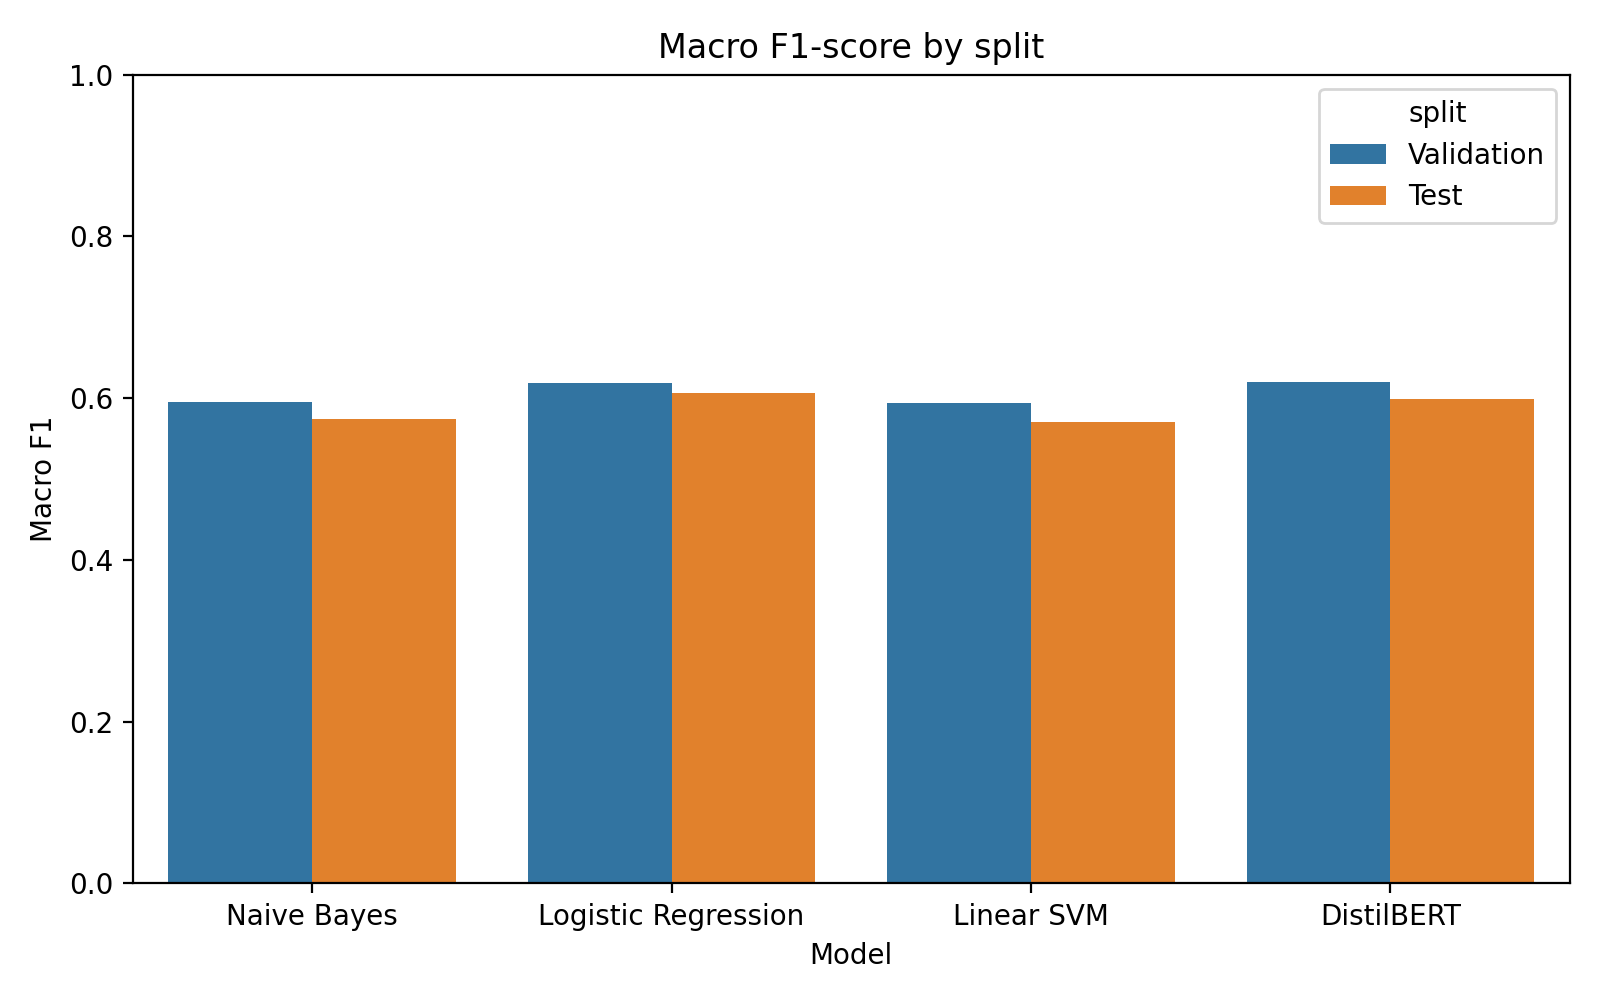
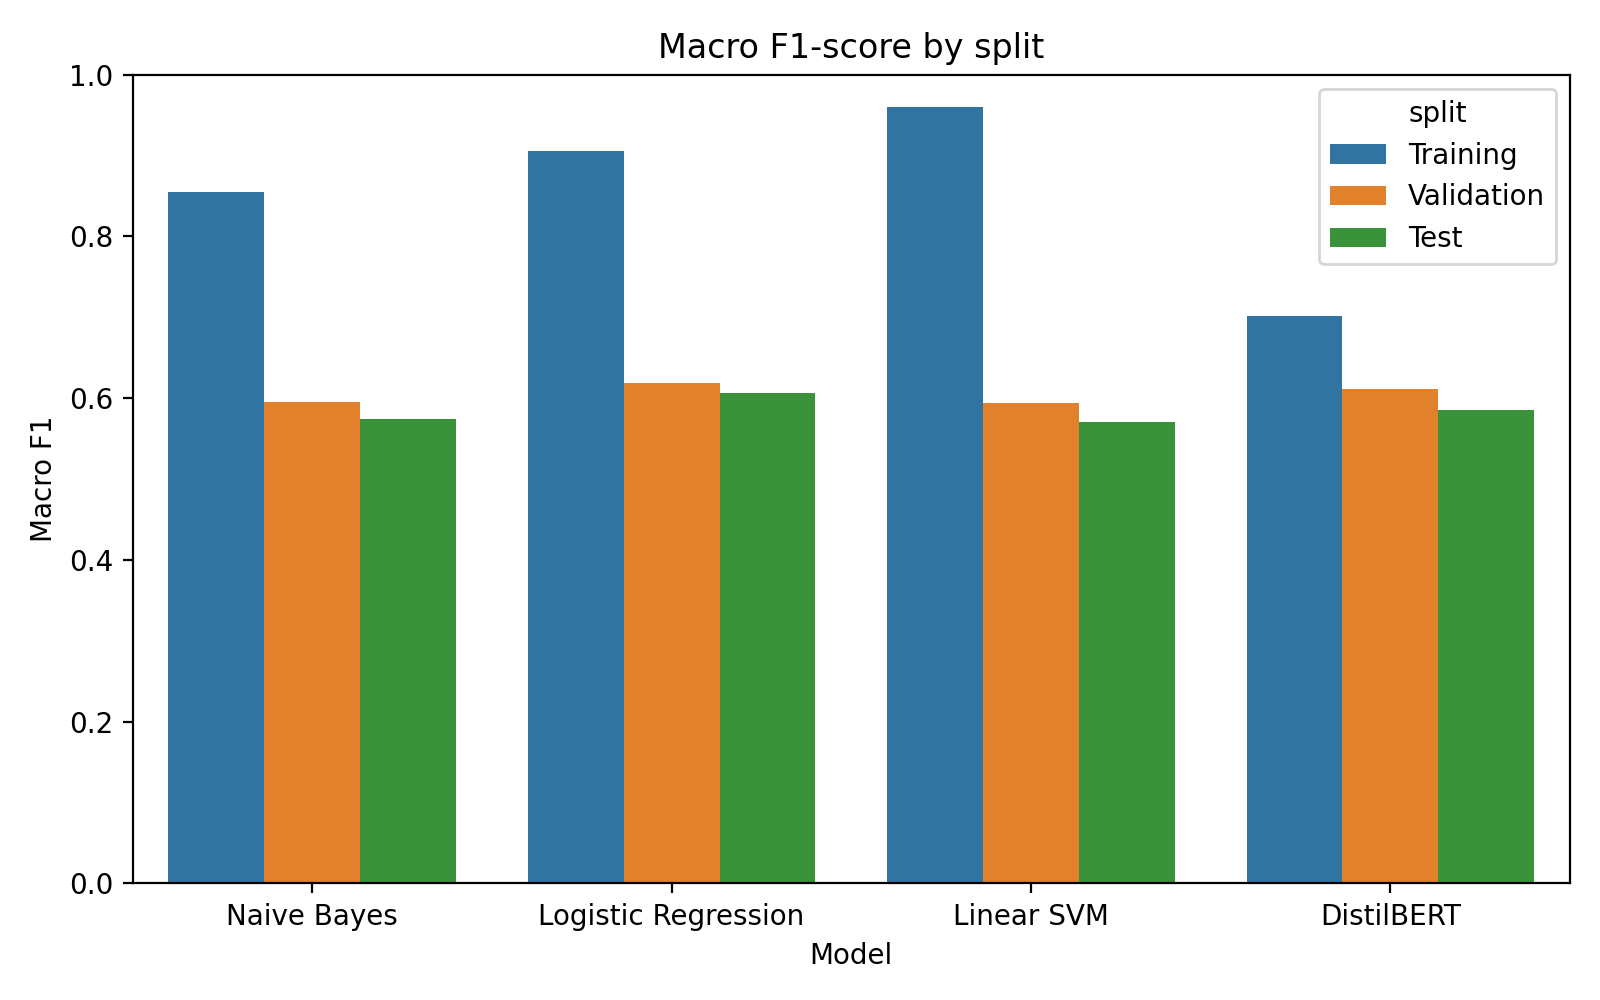
feat: add training metrics across pipelines and report

diff --git a/transformer_models.py b/transformer_models.py
@@ -66,6 +66,7 @@ def train_transformer(dataset: DatasetSplits) -> Dict[str, object]:
     for ds in (tokenized_train, tokenized_val, tokenized_test):
         ds.set_format(type='torch', columns=['input_ids', 'attention_mask', 'label'])
 
+    train_labels = np.array(tokenized_train['label'])
     val_labels = np.array(tokenized_val['label'])
     test_labels = np.array(tokenized_test['label'])
 
@@ -110,6 +111,14 @@ def train_transformer(dataset: DatasetSplits) -> Dict[str, object]:
 
     trainer.train()
 
+    print("\n📊 Transformer Training Results:\n")
+    train_predictions = trainer.predict(tokenized_train)
+    train_preds = np.argmax(train_predictions.predictions, axis=1)
+    print(classification_report(train_labels, train_preds, target_names=dataset.label_encoder.classes_))
+    train_report = classification_report(
+        train_labels, train_preds, target_names=dataset.label_encoder.classes_, output_dict=True
+    )
+
     print("\n📊 Transformer Validation Results:\n")
     val_predictions = trainer.predict(tokenized_val)
     val_preds = np.argmax(val_predictions.predictions, axis=1)
@@ -130,6 +139,10 @@ def train_transformer(dataset: DatasetSplits) -> Dict[str, object]:
         "train_samples": train_count,
         "val_samples": val_count,
         "test_samples": test_count,
+        "training": {
+            "accuracy": accuracy_score(train_labels, train_preds),
+            "report": train_report,
+        },
         "validation": {
             "accuracy": accuracy_score(val_labels, val_preds),
             "report": val_report,

diff --git a/traditional_models.py b/traditional_models.py
@@ -26,7 +26,7 @@ def train_and_evaluate_classical_models(dataset: DatasetSplits) -> Dict[str, Dic
         "Linear SVM": LinearSVC(),
     }
 
-    results: Dict[str, Dict[str, float]] = {}
+    results: Dict[str, Dict[str, object]] = {}
     for name, model in models.items():
         print(f"\nTraining {name}...")
         clf = Pipeline([
@@ -36,10 +36,11 @@ def train_and_evaluate_classical_models(dataset: DatasetSplits) -> Dict[str, Dic
         clf.fit(dataset.X_train, dataset.y_train)
 
         split_metrics: Dict[str, Dict[str, object]] = {}
-        for split_name, (X, y) in {
-            "Validation": (dataset.X_val, dataset.y_val),
-            "Test": (dataset.X_test, dataset.y_test),
-        }.items():
+        for split_name, (X, y) in [
+            ("Training", (dataset.X_train, dataset.y_train)),
+            ("Validation", (dataset.X_val, dataset.y_val)),
+            ("Test", (dataset.X_test, dataset.y_test)),
+        ]:
             metrics = _evaluate_split(clf, X, y, dataset.label_encoder.classes_, split_name)
             split_metrics[split_name.lower()] = metrics
 

diff --git a/analysis/generate_report.py b/analysis/generate_report.py
@@ -94,14 +94,18 @@ def _model_metrics_frame(classical_results: Dict[str, Dict[str, Dict]], transfor
                 }
             )
     if transformer_results:
-        for split_name in ("validation", "test"):
+        for split_name, label in [
+            ("training", "Training"),
+            ("validation", "Validation"),
+            ("test", "Test"),
+        ]:
             metrics = transformer_results.get(split_name, {})
             report = metrics.get("report", {})
             macro = report.get("macro avg", {})
             rows.append(
                 {
                     "model": "DistilBERT",
-                    "split": "Validation" if split_name == "validation" else "Test",
+                    "split": label,
                     "accuracy": metrics.get("accuracy"),
                     "macro_precision": macro.get("precision"),
                     "macro_recall": macro.get("recall"),

diff --git a/README.md b/README.md
@@ -32,28 +32,30 @@
 
 ## 5. Results Summary
 ### Classical Models (full dataset)
-| Model | Validation Accuracy | Validation Macro F1 | Test Accuracy | Test Macro F1 |
-| --- | --- | --- | --- | --- |
-| Naive Bayes | 0.623 | 0.596 | 0.594 | 0.574 |
-| Logistic Regression | 0.632 | 0.619 | 0.611 | 0.606 |
-| Linear SVM | 0.606 | 0.594 | 0.577 | 0.570 |
+| Model | Train Accuracy | Train Macro F1 | Validation Accuracy | Validation Macro F1 | Test Accuracy | Test Macro F1 |
+| --- | --- | --- | --- | --- | --- | --- |
+| Naive Bayes | 0.858 | 0.855 | 0.623 | 0.596 | 0.594 | 0.574 |
+| Logistic Regression | 0.907 | 0.906 | 0.632 | 0.619 | 0.611 | 0.606 |
+| Linear SVM | 0.959 | 0.960 | 0.606 | 0.594 | 0.577 | 0.570 |
 
 ### DistilBERT (subsampled run)
 - Train samples: 3 000 (subset of training split)
 - Validation/Test samples: 2 000 each (subset for quick evaluation)
-- Validation accuracy: 0.643 (macro F1 0.620)
-- Test accuracy: 0.615 (macro F1 0.599)
+- Training accuracy: 0.722 (macro F1 0.702)
+- Validation accuracy: 0.641 (macro F1 0.611)
+- Test accuracy: 0.608 (macro F1 0.585)
 
 > Note: Running DistilBERT on the full 46 K examples would take ~7–8 hours for 2 epochs on the M4 Air CPU but should tighten the gap further.
 
 ## 6. Visual Insights (see `reports/figures/`)
 - `label_distribution.png`: class balance is relatively even, slightly skewed toward Negative.
 - `text_length_distribution.png`: train/val/test share similar length profiles, confirming split consistency.
-- `model_*` charts: DistilBERT edges classical models on accuracy and macro scores while classical baselines remain competitive and much faster.
+- `model_*` charts: compare training/validation/test accuracy and macro metrics for every model—classical baselines nearly memorize the training data, while DistilBERT stays closer to validation/test scores.
 
 ## 7. Key Takeaways
 - Cleaning/reshuffling eliminated data leakage, reducing inflated classical scores but yielding realistic baselines.
 - TF–IDF + Logistic Regression remains a strong lightweight baseline (0.61 test accuracy) for rapid experimentation.
+- Training metrics reveal classical models nearly memorize the dataset (≈0.95 training accuracy) while transformers stay closer to held-out scores—use validation/test numbers for real performance.
 - Even with a small subsample DistilBERT surpasses classical models, confirming transformer benefits on nuanced sentiment labels.
 - Runtime constraints on CPU require subsampling or patience; consider GPU or gradient-accumulation tweaks for full-scale runs.
 
@@ -69,4 +71,3 @@
 - Run experiments: `python3 main.py` (set env vars for transformer size/epochs)
 - Produce report: `python3 analysis/generate_report.py`
 - Inspect outputs in `reports/` for latest metrics & visuals.
-
